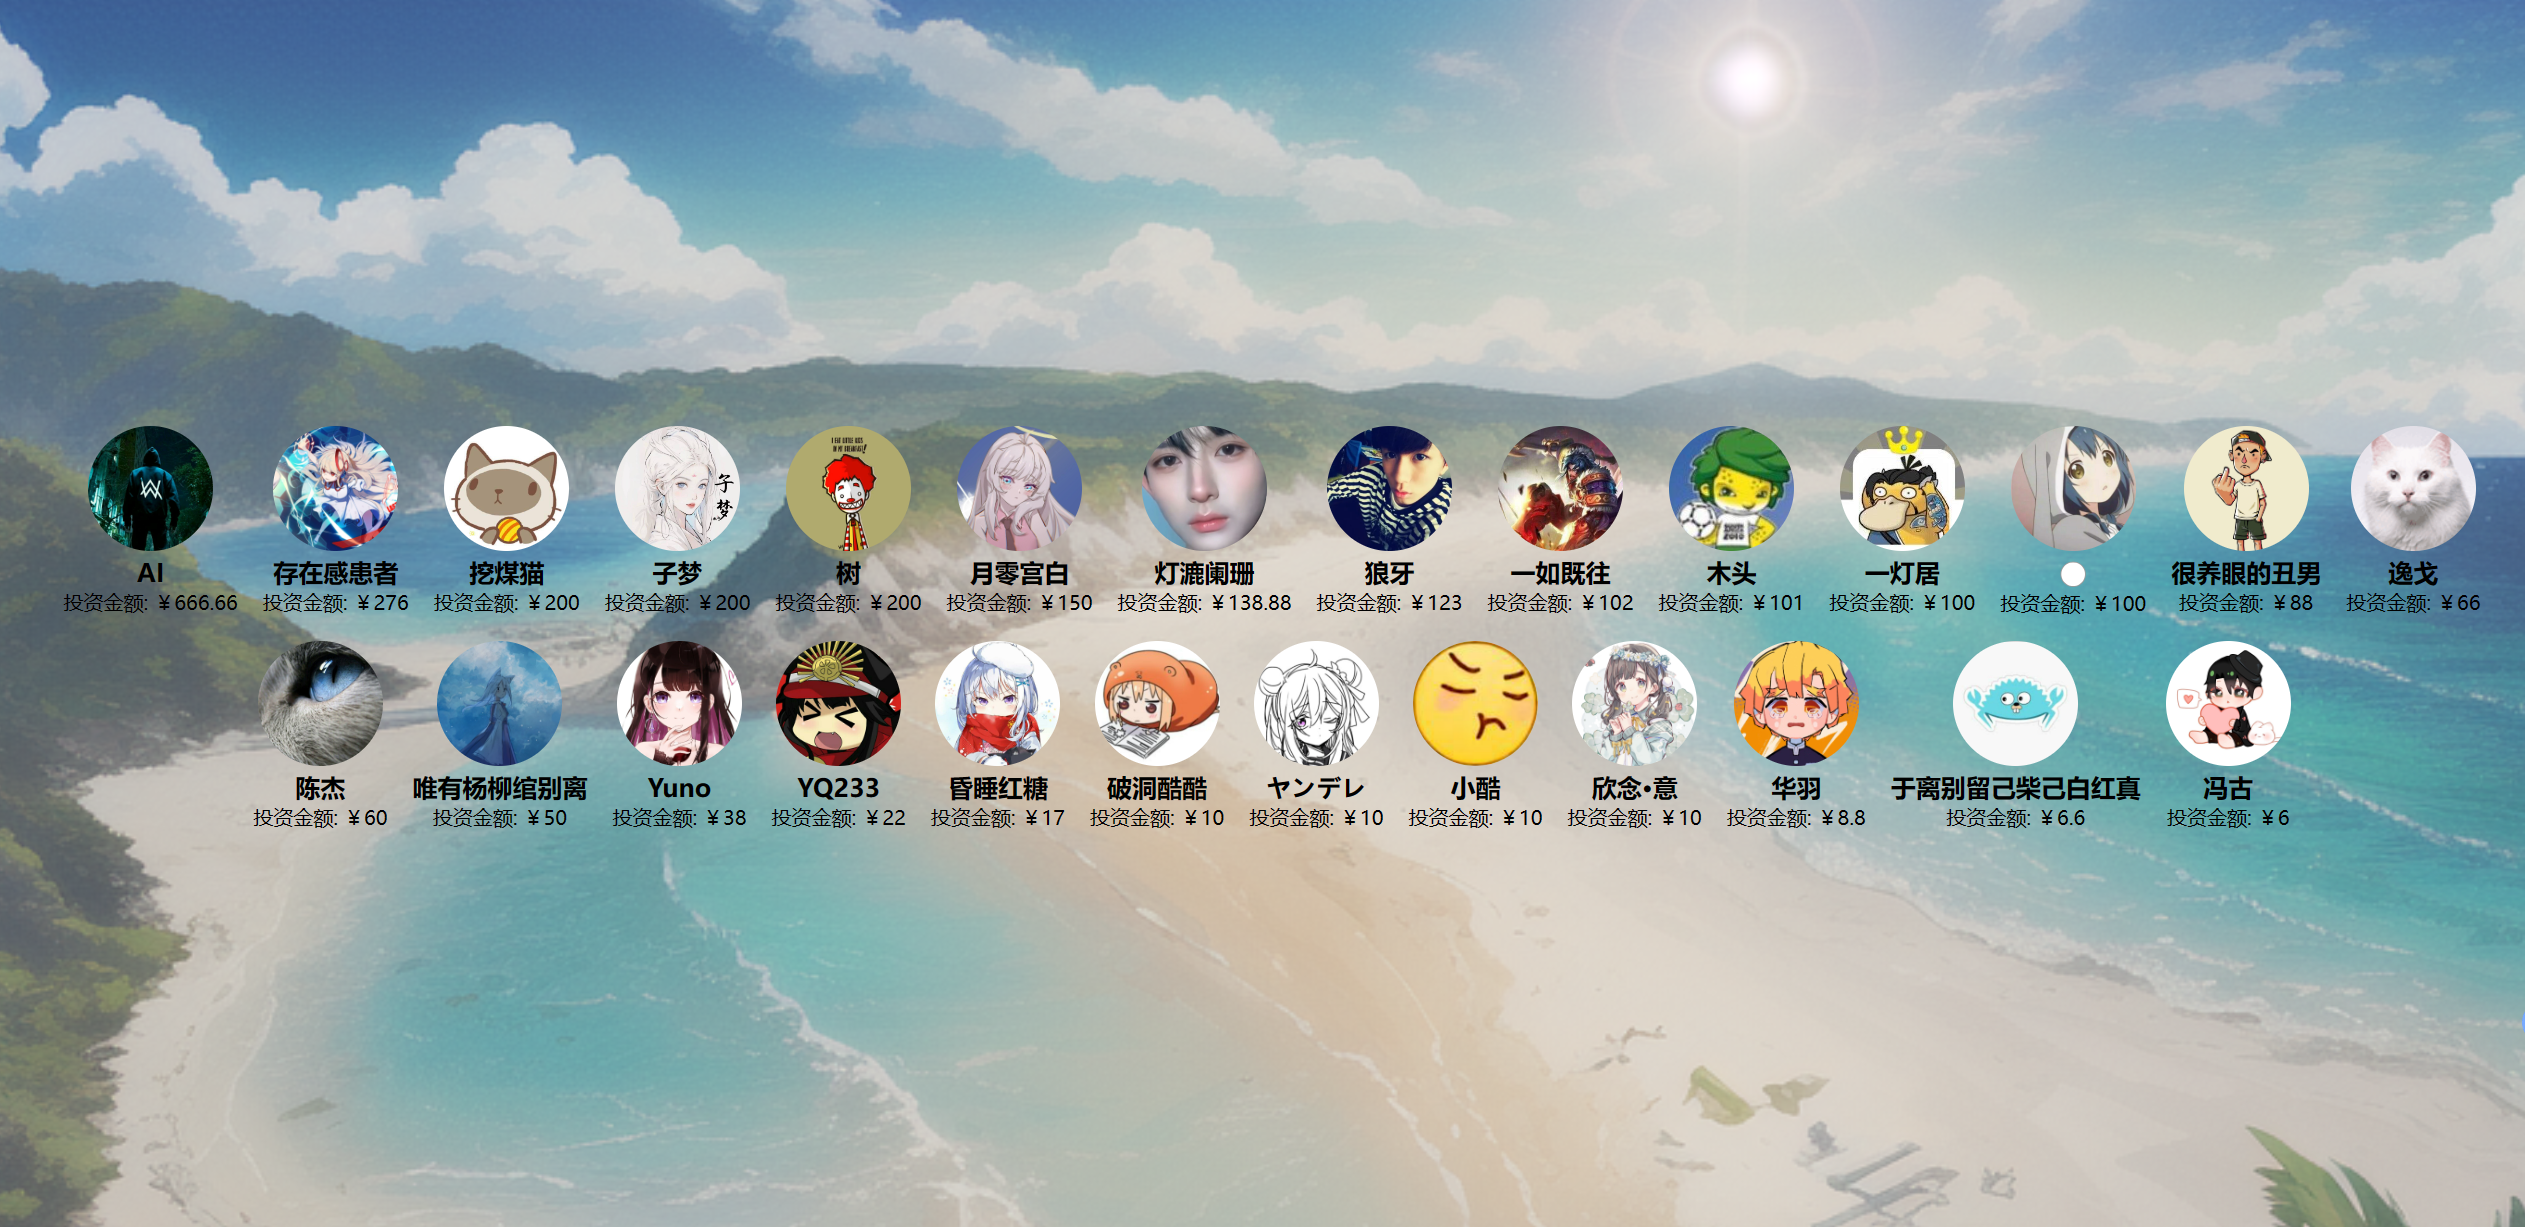
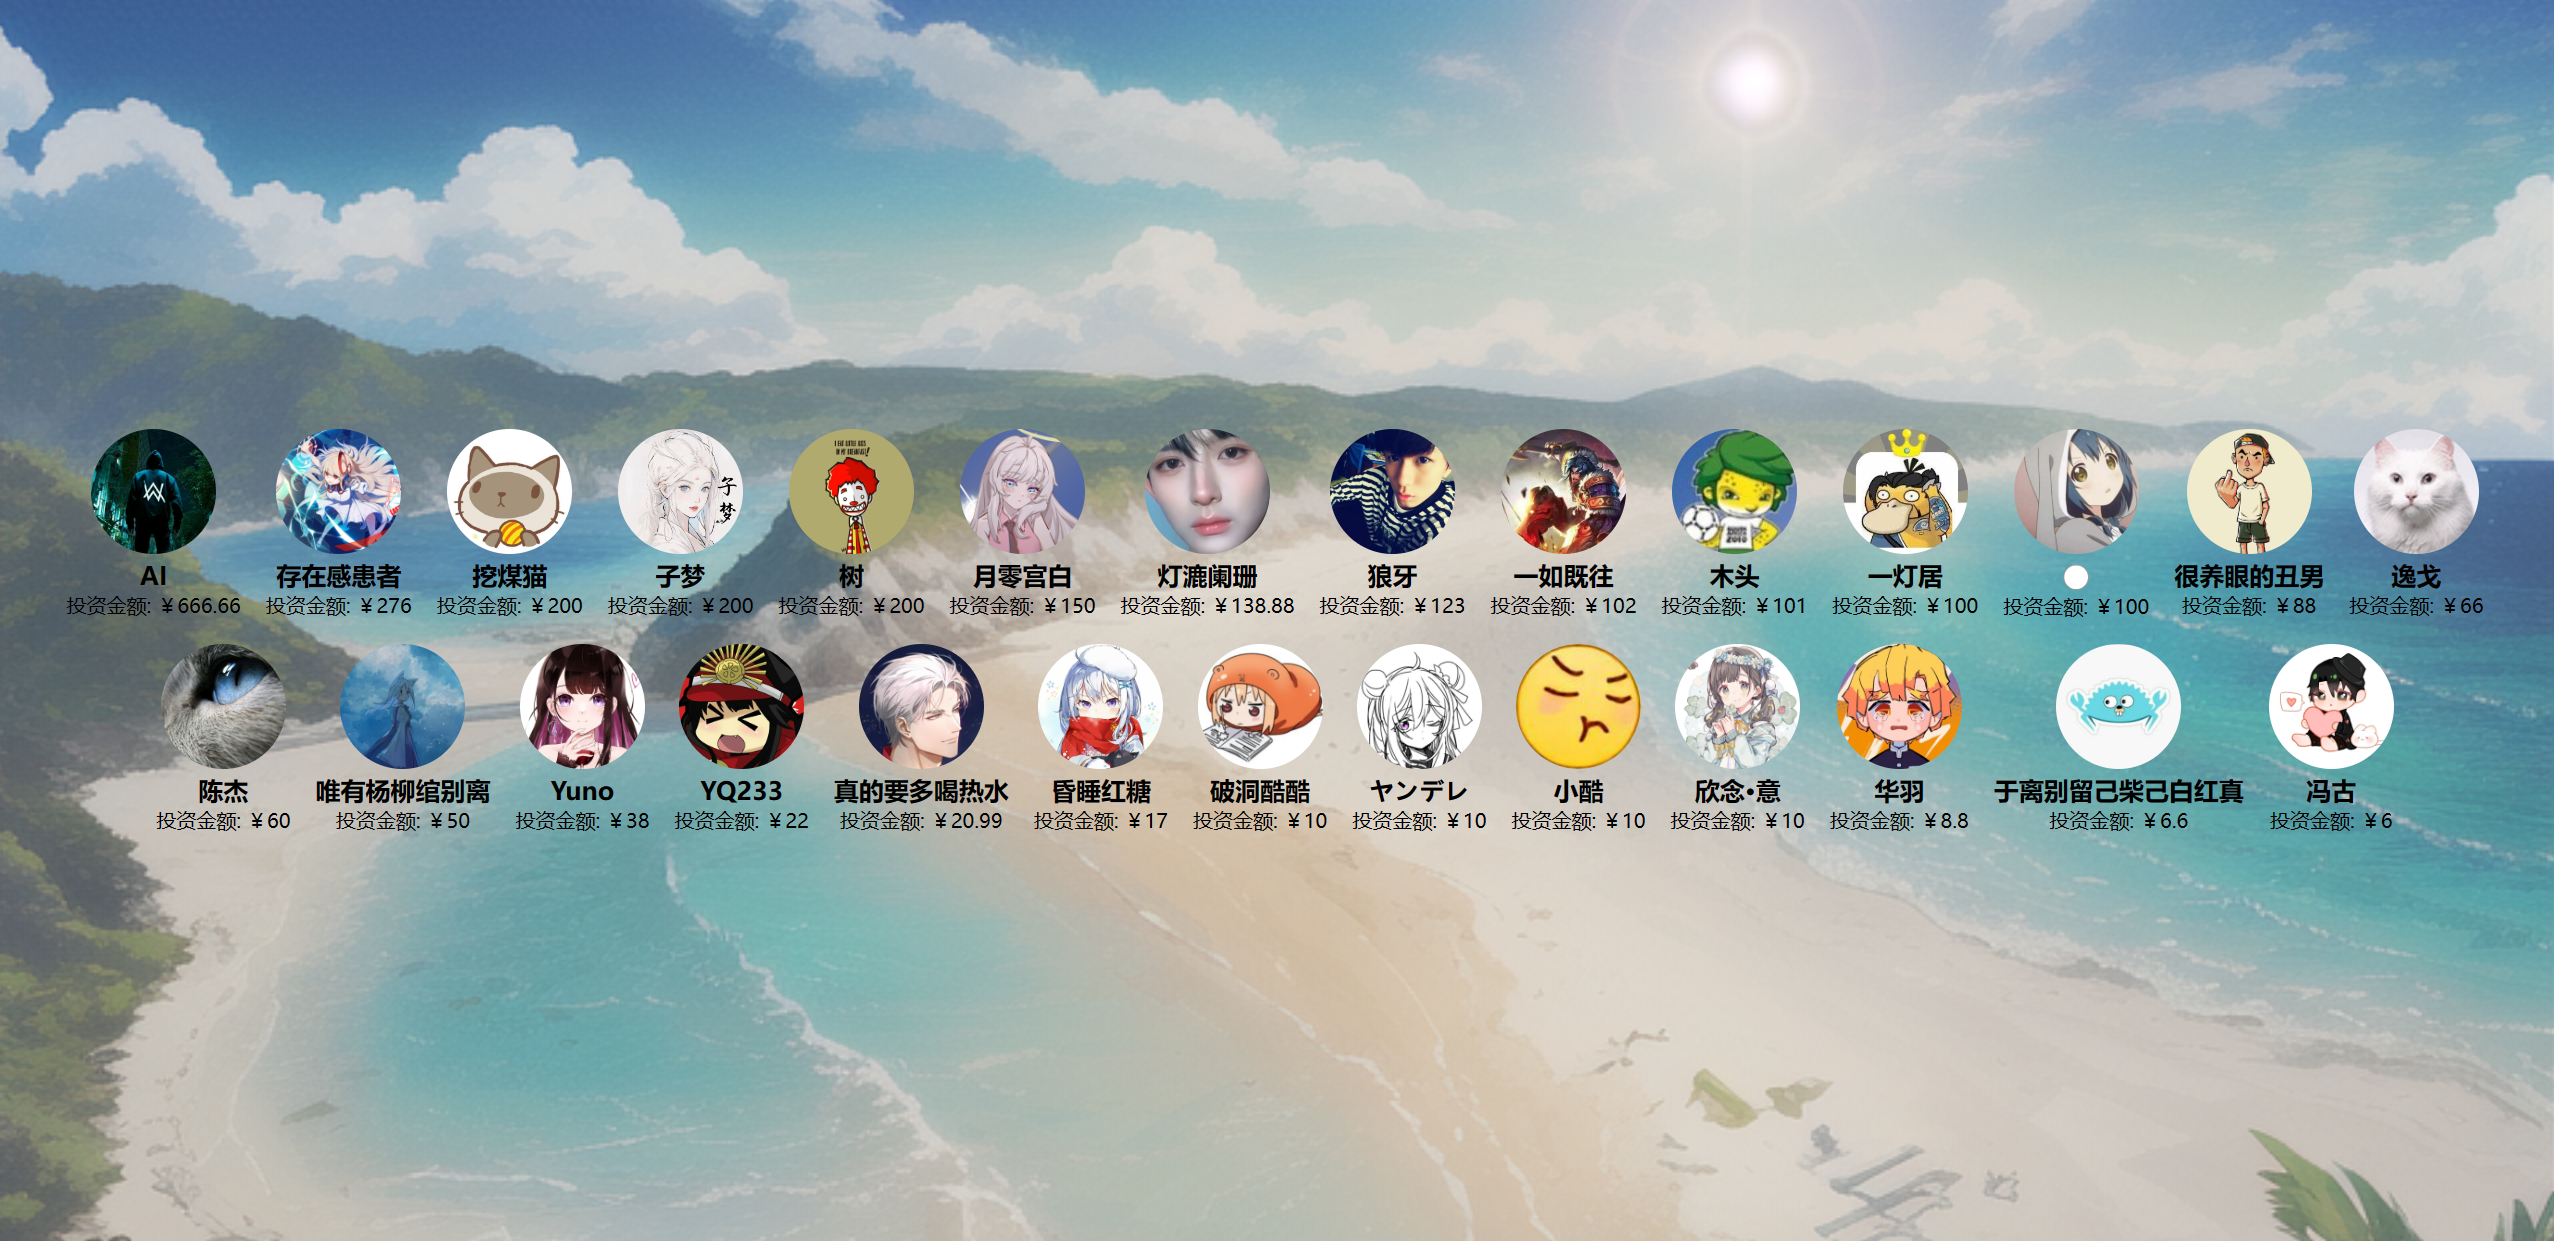
更新投资人信息

diff --git a/docs/投资人/index.html b/docs/投资人/index.html
@@ -142,6 +142,11 @@
             amount: "￥22"
         },
         {
+            name: "真的要多喝热水",
+            avatar: "https://images.cnblogs.com/cnblogs_com/ikaros-521/2328032/o_230814144413_QQ%E5%9B%BE%E7%89%8720230814224327.jpg",
+            amount: "￥20.99"
+        },
+        {
             name: "昏睡红糖",
             avatar: "https://images.cnblogs.com/cnblogs_com/ikaros-521/2328032/o_230719074436_%E6%98%8F%E7%9D%A1%E7%BA%A2%E7%B3%96.jpg",
             amount: "￥17"

diff --git a/README.md b/README.md
@@ -994,6 +994,8 @@ MODEL_LIST = [
 官方仓库：[VITS-fast-fine-tuning](https://github.com/Plachtaa/VITS-fast-fine-tuning)  
 个人提供的已训练好的模型：[点我跳转](https://github.com/Ikaros-521/VITS-fast-fine-tuning/releases)  
 视频教程：[【AI语音合成-数据集篇#00】模型使用简单讲解，手把手演示](https://www.bilibili.com/video/BV1Lm4y1r7Pi)  
+训练用整合包（原作者整合包备份）：[https://pan.quark.cn/s/da52e78983da](https://pan.quark.cn/s/da52e78983da)  
+整合包视频教程：[AI声音克隆又进化了，10分钟学会声音克隆！一键启动包发布！](https://www.bilibili.com/video/BV1K94y1k7Bw)  
 
 ### DDSP-SVC
 官方仓库：[DDSP-SVC](https://github.com/yxlllc/DDSP-SVC)  
